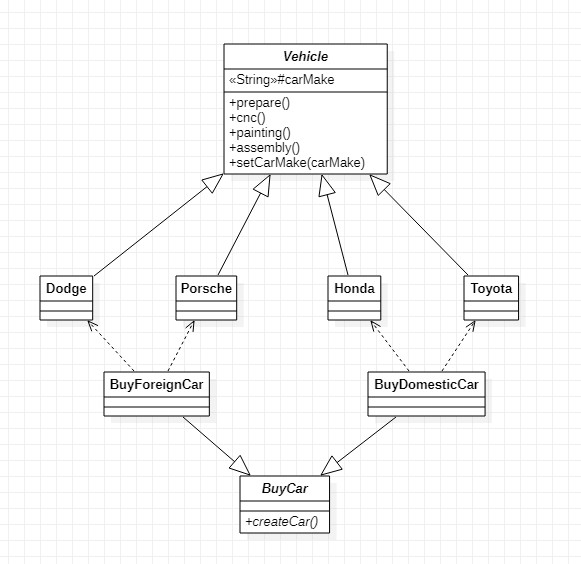
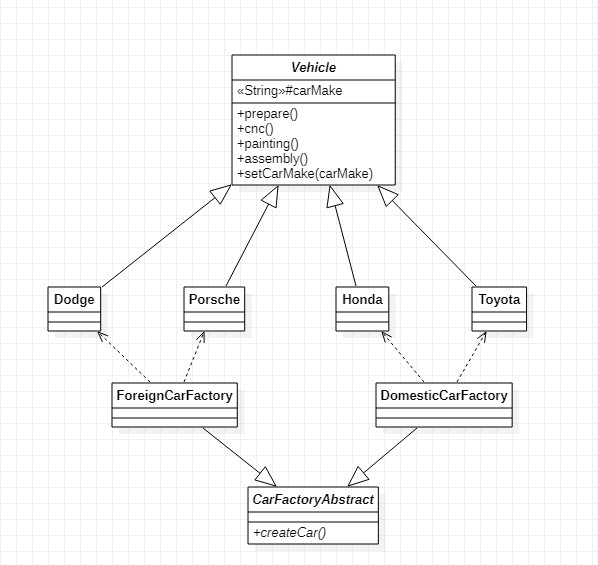
rebuild factory method

diff --git a/4_Factory/3_FactoryMethod/factory-method-1/src/com/factory_method/FactoryStoreTest.java b/4_Factory/3_FactoryMethod/factory-method-1/src/com/factory_method/FactoryStoreTest.java
@@ -1,0 +1,46 @@
+package com.factory_method;
+/*
+一，看一个新的需求，来说明简单工厂模式的不足
+	如果客户要买国外的这种corrolla车型，怎么做？(增加了新类型的的产品)
+	1，按照上例的简单工厂模式，就得在SimpleFactory.java的createVehicle(..)再增加代码，不符合OCP原则。
+	2，单一工厂SimpleFactory.java里负责的类型太多，不符合单一职责原则。
+
+二，解决上面的问题可使用工厂方法模式，即再BuyCarAbstract.java创建一个抽象的制造汽车的方法
+   然后由具体的实现类的createCar(..)来制造不同的车，即把实例化的操作在子类完成；
+   每增加一个类型，就增加一个工厂类，对扩展开放，对修改关闭，符合单一职责和OCP原则。
+   例如：本例我想要合资车就增加一个合资工厂类即可
+
+三，工厂方法模式实际也是属于模板方法模式这个大类。
+
+四，这里可以把具体产生的汽车看作项目中需要的类的对象。
+*/
+
+//手动编译运行命令：
+// factory-method-1--> javac -encoding utf-8 -d build  src/com/factory_method/FactoryStoreTest.java  src/com/factory_method/factory/*.java src/com/factory_method/entity/*.java
+// build--> java com.factory_method.FactoryStoreTest
+
+import com.factory_method.factory.CarFactoryAbstract;
+import com.factory_method.factory.DomesticCarFactory;
+import com.factory_method.factory.ForeignCarFactory;
+
+//注意，编译时执行 javac -encoding utf-8 FactoryStoreTest.java即可，不用*.java
+public class FactoryStoreTest {
+
+	public static void main(String[] args){
+		
+		String location = "foreign";
+		
+		if("foreign".equals(location)){
+			//买进口车型
+			System.out.println("下面买进口车型");
+			//子类实例化时，其无参构造方法默认有个super()去调用父类的无参构造，而父类中的无参构造调用了toBuyCar()方法
+			CarFactoryAbstract buyCar = new ForeignCarFactory();
+		}else if("domestic".equals(location)){
+			//买国产的车型
+			System.out.println("下面买国产车型");
+			CarFactoryAbstract buyCar = new DomesticCarFactory();
+		}
+		
+		
+	}
+}

diff --git a/16_Visitor/src/com/visitor/VisitorTest.java b/16_Visitor/src/com/visitor/VisitorTest.java
@@ -5,6 +5,15 @@ import com.pattern.visitor.visitor.Customer;
 import com.pattern.visitor.visitor.Manager;
 
 //访问者模式测试类
+/*
+* 访问者模式
+* 优点：
+* 访问者模式是指在不改变一个元素内部结构的前提下，创建多个访问者类，实现多种的功能。
+* 缺点：
+* 1，具体元素对访问者公开了内部细节，违背了我迪米特原则。
+* 2，违背了依赖倒转原则，访问者依赖的是具体的类，不是抽象类或接口，
+* 当增加一个新类时，访问者内部的代码需要改动。
+*/
 public class VisitorTest {
 
     public static void main(String[] args) {

diff --git a/4_Factory/2_SimpleFactory/FactoryStoreTest.java b/4_Factory/2_SimpleFactory/FactoryStoreTest.java
@@ -1,8 +1,14 @@
 
 /*
+简单工厂模式：
 1,本例使用简单工厂模式（也称静态工厂模式）；
 2,主要代码具体见工厂类SimpleFactory.java；
-3,这里尽心买车的操作；
+3,这里进行买车的操作；
+简单工厂模式的不足：
+1,如果要增加新类型的产品就得修改SimpleFactory.java中的代码，不符合OCP原则；
+2,新类型过多造成SimpleFactory.java难以维护，而且不符合单一职责原则；
+改善：
+使用工厂方法模式可改善此问题。
 */
 
 public class FactoryStoreTest {

diff --git a/4_Factory/3_FactoryMethod/factory-method-1/src/com/factory_method/factory/CarFactoryAbstract.java b/4_Factory/3_FactoryMethod/factory-method-1/src/com/factory_method/factory/CarFactoryAbstract.java
@@ -1,14 +1,17 @@
+package com.factory_method.factory;
+
+import com.factory_method.entity.*;
+
 import java.io.*;
-import java.util.*;
 
 
 //工厂类的父类，创建对象的方法交给子类去实现
-public abstract class BuyCarAbstract {
+public abstract class CarFactoryAbstract {
 
    //写一个抽象方法，由具体的子类去实现，去确定制造国内或国外的什么品牌的车
    public abstract Vehicle createCar(String carMake);
 
-   public BuyCarAbstract(){
+   public CarFactoryAbstract(){
 		toBuyCar();	  
    }
 	

diff --git a/4_Factory/3_FactoryMethod/factory-method-1/src/com/factory_method/factory/DomesticCarFactory.java b/4_Factory/3_FactoryMethod/factory-method-1/src/com/factory_method/factory/DomesticCarFactory.java
@@ -1,0 +1,22 @@
+package com.factory_method.factory;
+
+import com.factory_method.entity.*;
+
+//国产车订购的类，工厂类
+public class DomesticCarFactory extends CarFactoryAbstract {
+
+	//JDK的Calender.java里createCalendar(TimeZone zone,Locale aLocale)也是用的工厂方法，和这里一样。
+    public Vehicle createCar(String carMake){
+		
+		Vehicle car = null;
+		
+		if("corrolla".equals(carMake)){
+			car = new Corrolla();
+		}else if("prado".equals(carMake)){
+			car = new Prado();
+		}
+
+		return car;
+    }
+
+}

diff --git a/15_Command/src/com/pattern/command/draw/DrawCanvas.java b/15_Command/src/com/pattern/command/draw/DrawCanvas.java
@@ -36,7 +36,8 @@ public class DrawCanvas extends Canvas implements Drawable{
     public void draw(int x,int y) {
         Graphics g = getGraphics();
         g.setColor(color);
-        g.fillOval(x - radius,y - radius, radius * 2, radius * 2);
+        
+		g.fillOval(x - radius,y - radius, radius * 2, radius * 2); //这里是核心的命令语句
 
     }
 

diff --git a/4_Factory/3_FactoryMethod/factory-method-1/src/com/factory_method/factory/ForeignCarFactory.java b/4_Factory/3_FactoryMethod/factory-method-1/src/com/factory_method/factory/ForeignCarFactory.java
@@ -1,6 +1,9 @@
+package com.factory_method.factory;
+
+import com.factory_method.entity.*;
 
 //工厂类
-public class BuyForeignCar extends BuyCarAbstract {
+public class ForeignCarFactory extends CarFactoryAbstract {
 
     public Vehicle createCar(String carMake){
 		Vehicle car = null;

diff --git a/4_Factory/2_SimpleFactory/SimpleFactory.java b/4_Factory/2_SimpleFactory/SimpleFactory.java
@@ -1,5 +1,6 @@
 
 /*
+简单工厂模式：
 工厂类，把原来在BuyCar.java中创建Vehicle对象的方法封装到这里
 以后增加新的类只需要新写一个类，然后在这里修改加个else if语句即可，别的地方从这里获取这个类就行。
 */

diff --git a/4_Factory/3_FactoryMethod/factory-method-1/src/com/factory_method/entity/Prado.java b/4_Factory/3_FactoryMethod/factory-method-1/src/com/factory_method/entity/Prado.java
@@ -1,3 +1,5 @@
+package com.factory_method.entity;
+
 public class Prado extends Vehicle{
 	
 	public void prepare(){

diff --git a/4_Factory/3_FactoryMethod/factory-method-1/src/com/factory_method/entity/PradoImport.java b/4_Factory/3_FactoryMethod/factory-method-1/src/com/factory_method/entity/PradoImport.java
@@ -1,3 +1,5 @@
+package com.factory_method.entity;
+
 //进口汽车类
 public class PradoImport extends Vehicle{
 	

diff --git a/4_Factory/3_FactoryMethod/factory-method-1/src/com/factory_method/entity/Corrolla.java b/4_Factory/3_FactoryMethod/factory-method-1/src/com/factory_method/entity/Corrolla.java
@@ -1,3 +1,5 @@
+package com.factory_method.entity;
+
 //国产卡罗拉
 public class Corrolla extends Vehicle{
 	

diff --git a/4_Factory/3_FactoryMethod/factory-method-1/src/com/factory_method/entity/CorrollaImport.java b/4_Factory/3_FactoryMethod/factory-method-1/src/com/factory_method/entity/CorrollaImport.java
@@ -1,3 +1,5 @@
+package com.factory_method.entity;
+
 public class CorrollaImport extends Vehicle{
 	
 
